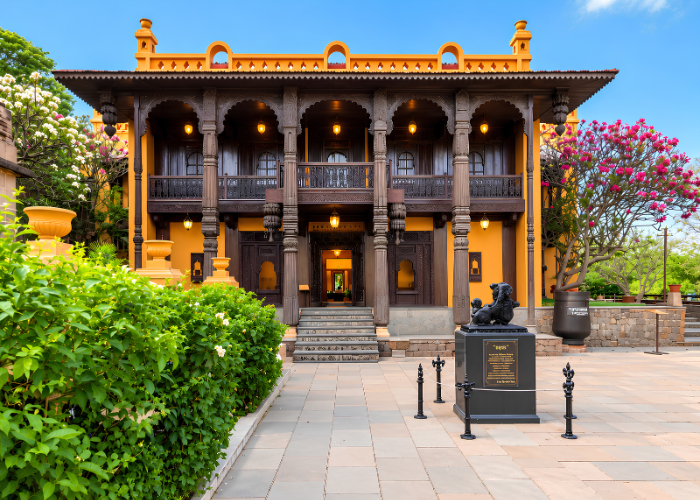
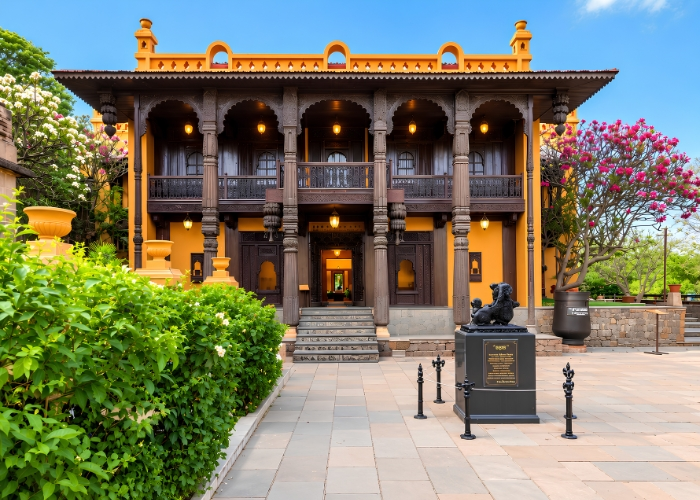
first commit

diff --git a/index.html b/index.html
@@ -455,7 +455,7 @@
                         <div class="bento-visual-media">
                             <span class="bento-badge-tag"><i class="fa-solid fa-seedling"></i> 5-Star Ecotel</span>
                             <span class="bento-badge-rating"><i class="fa-solid fa-star"></i> 4.9</span>
-                            <img src="assets/img/mumbai.jpg (1).jpeg" alt="The Orchid Hotel, Mumbai" loading="lazy">
+                            <img src="assets/img/orchid_hotel1.jpg" alt="The Orchid Hotel, Mumbai" loading="lazy">
                         </div>
 
                     </div>
@@ -524,7 +524,7 @@
                         <div class="bento-visual-media">
                             <span class="bento-badge-tag"><i class="fa-solid fa-crown"></i> Beach Palace</span>
                             <span class="bento-badge-rating"><i class="fa-solid fa-star"></i> 4.8</span>
-                            <img src="assets/img/Mahodadhi Palace.jpg" alt="Mahodadhi Palace, Puri" loading="lazy">
+                            <img src="assets/img/mahadodhilogo1.jpg" alt="Mahodadhi Palace, Puri" loading="lazy">
                         </div>
 
                     </div>
@@ -559,7 +559,7 @@
                         <div class="bento-visual-media">
                             <span class="bento-badge-tag"><i class="fa-solid fa-leaf"></i> Eco Resort</span>
                             <span class="bento-badge-rating"><i class="fa-solid fa-star"></i> 4.7</span>
-                            <img src="assets/img/lotus.jpg (2).jpeg" alt="Lotus Eco Resort, Konark" loading="lazy">
+                            <img src="assets/img/lotus1.jpg" alt="Lotus Eco Resort, Konark" loading="lazy">
                         </div>
 
                     </div>
@@ -593,7 +593,7 @@
                         <div class="bento-visual-media">
                             <span class="bento-badge-tag"><i class="fa-solid fa-water"></i> Wellness Resort</span>
                             <span class="bento-badge-rating"><i class="fa-solid fa-star"></i> 4.9</span>
-                            <img src="assets/img/Toyam.jpg.jpeg" alt="Toyam by Orchid Hotels" loading="lazy">
+                            <img src="assets/img/toyam1.jpg" alt="Toyam by Orchid Hotels" loading="lazy">
                         </div>
 
                     </div>
